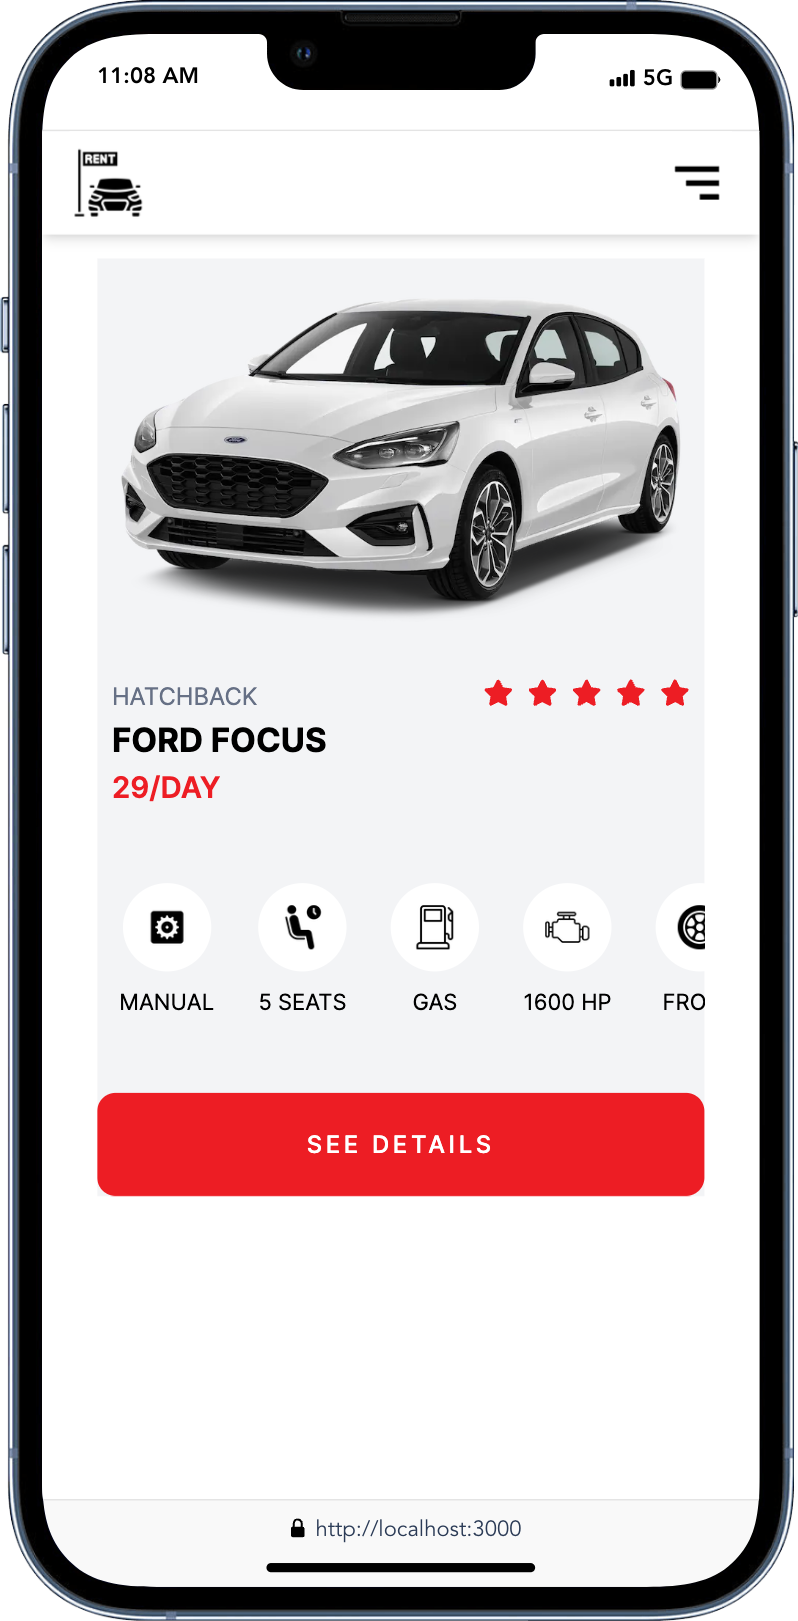
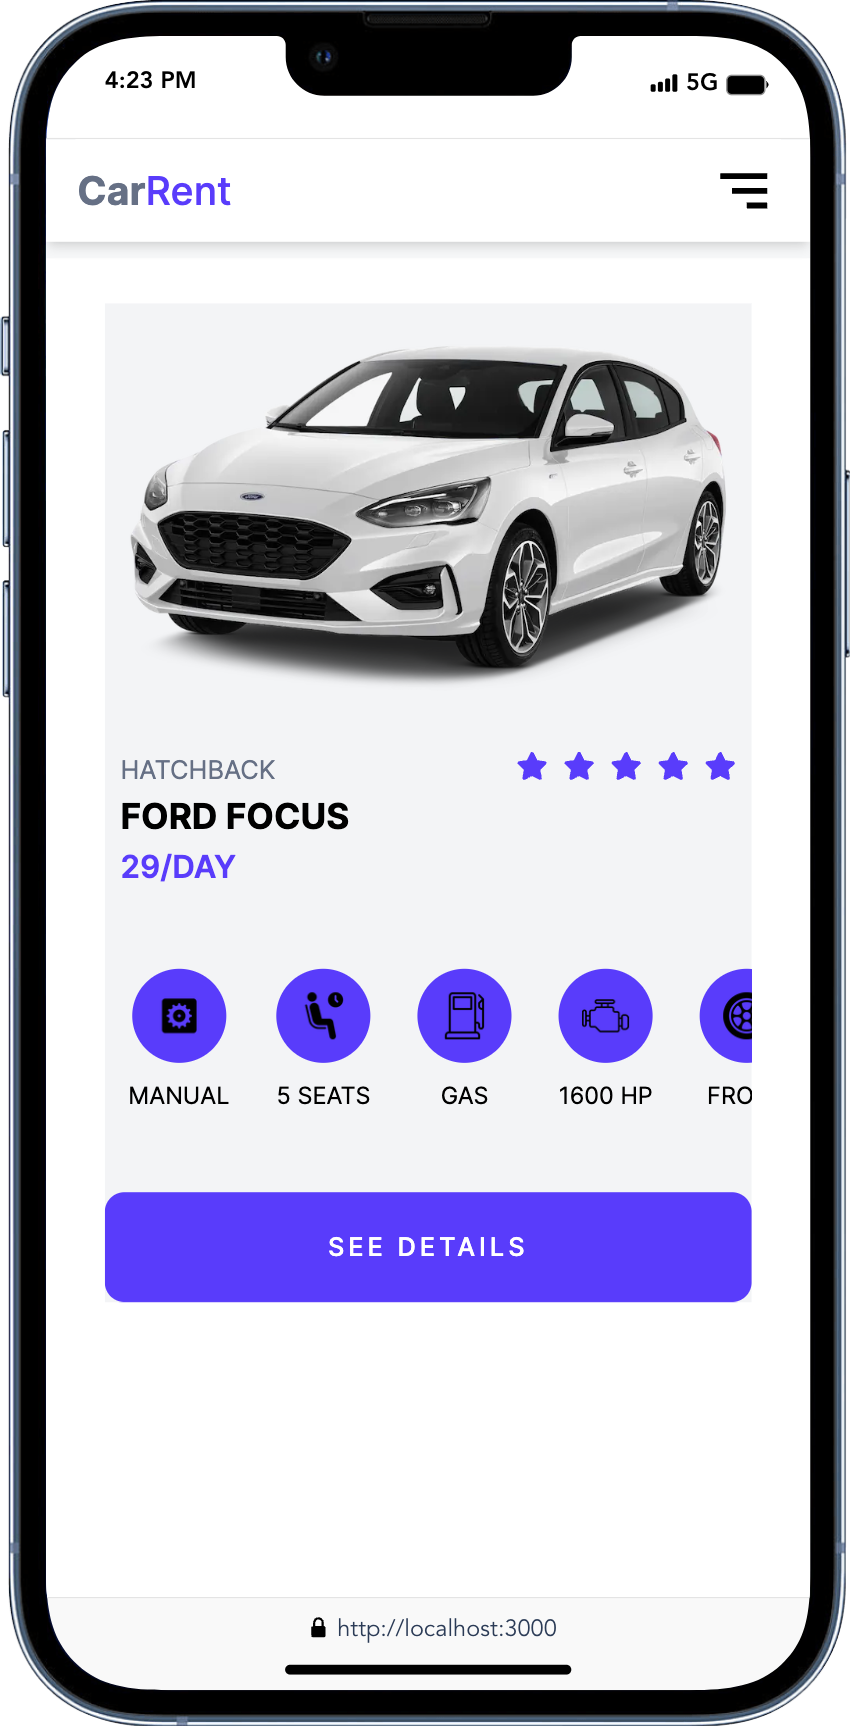
final commit

diff --git a/app/components/why.tsx b/app/components/why.tsx
@@ -19,7 +19,7 @@ export default function Why() {
           initial="hidden"
           whileInView={"show"}
           viewport={{ once: false, amount: 0.6 }}
-          className="h2 text-center"
+          className="h2 text-center text-accent"
         >
           Unmatched excellence and customer satisfaction
         </motion.h2>
@@ -28,7 +28,7 @@ export default function Why() {
           initial="hidden"
           whileInView={"show"}
           viewport={{ once: false, amount: 0.6 }}
-          className="max-w-[680px] text-center mx-auto mb-2"
+          className="max-w-[680px] text-center mx-auto mb-2 "
         >
           Our dedication to providing exceptional services sets us apart from
           the competition. From the moment you engage with us , we strive to
@@ -57,7 +57,7 @@ export default function Why() {
           {/* item 1 */}
           <div className="flex flex-col items-center text-center max-w-[160px] xl:max-w-none p-2 xl:p-0">
             <MdKey className="text-[38px] text-accent mb-4" />
-            <h3 className="h3">Rent Simply and quickly</h3>
+            <h3 className="h3 text-accent">Rent Simply and quickly</h3>
             <p className="hidden xl:flex">
               we prioritize your need and we go above and beyond to ensure your
               experience with us is nothing short of understanding.
@@ -66,7 +66,9 @@ export default function Why() {
           {/* item 2 */}
           <div className="flex flex-col items-center text-center max-w-[160px] xl:max-w-none p-2 xl:p-0">
             <MdTrendingUp className="text-[38px] text-accent mb-4" />
-            <h3 className="h3">Modern & well maintained vehicles</h3>
+            <h3 className="h3 text-accent">
+              Modern & well maintained vehicles
+            </h3>
             <p className="hidden xl:flex">
               we prioritize your need and we go above and beyond to ensure your
               experience with us is nothing short of understanding.
@@ -75,7 +77,7 @@ export default function Why() {
           {/* item 3 */}
           <div className="flex flex-col items-center text-center max-w-[160px] xl:max-w-none p-2 xl:p-0">
             <MdHandshake className="text-[38px] text-accent mb-4" />
-            <h3 className="h3">Promote and flexible services</h3>
+            <h3 className="h3 text-accent">Promote and flexible services</h3>
             <p className="hidden xl:flex">
               we prioritize your need and we go above and beyond to ensure your
               experience with us is nothing short of understanding.

diff --git a/app/components/footer.tsx b/app/components/footer.tsx
@@ -24,9 +24,9 @@ export default function Footer() {
           initial="hidden"
           whileInView={"show"}
           viewport={{ once: false, amount: 0.6 }}
-          className="flex flex-col lg:flex-row lg:justify-between gap-x-5 gap-y-14"
+          className="flex flex-col lg:flex-row lg:justify-between gap-x-5 gap-y-14 "
         >
-          <div className="flex flex-col flex-1 gap-y-8">
+          <div className="flex flex-col flex-1 gap-y-8 ">
             {/* logo */}
             <ScrollLink
               to={"home"}
@@ -34,14 +34,16 @@ export default function Footer() {
               spy={true}
               className="cursor-pointer"
             >
-              <Image src={"/icons/logo.png"} width={200} height={200} alt="" />
+              {/* <Image src={"/icons/logo.png"} width={200} height={200} alt="" /> */}
+              <p className="text-xl font-bold">
+                Car<span className="text-accent font-medium">Rent</span>
+              </p>
             </ScrollLink>
 
             {/* text */}
 
             <div className="text-secondary">
-              Lorem ipsum dolor sit, amet consectetur adipisicing elit. Iste,
-              sed.
+              Find the perfect car to conquer the great outdoors...
             </div>
             {/* phone and email */}
 
@@ -54,7 +56,7 @@ export default function Footer() {
               {/* email */}
               <div className="flex items-center gap-x-[10px]">
                 <FaEnvelope />
-                <div className="font-medium">office@carland.com</div>
+                <div className="font-medium">office@carRent.com</div>
               </div>
             </div>
           </div>
@@ -105,8 +107,8 @@ export default function Footer() {
           <div className="flex-1">
             <h3 className="h3 font-medium mb-8">Newsletter</h3>
             <div className="mb-9 text-secondary">
-              Lorem ipsum dolor sit amet consectetur adipisicing elit. Enim,
-              iusto!
+              Sign up to get the latest updates from us. We promise not to spam
+              you or share your information with anyone else.
             </div>
 
             {/* form */}

diff --git a/app/components/About.tsx b/app/components/About.tsx
@@ -54,7 +54,7 @@ export default function About() {
                 initial="hidden"
                 whileInView={"show"}
                 viewport={{ once: false, amount: 0.6 }}
-                className="h2 mb-5"
+                className="h2 mb-5 text-accent"
               >
                 Car services simplified
               </motion.h2>
@@ -87,7 +87,7 @@ export default function About() {
                     ) : null}
                     +
                   </div>
-                  <div className="uppercase text-[13px] font-semibold text-secondary">
+                  <div className="uppercase text-[13px] font-semibold text-accent">
                     car <br /> types
                   </div>
                 </div>
@@ -99,7 +99,7 @@ export default function About() {
                       <CountUp start={0} end={135} duration={3} delay={1} />
                     ) : null}
                   </div>
-                  <div className="uppercase text-[13px] font-semibold text-secondary">
+                  <div className="uppercase text-[13px] font-semibold text-accent">
                     Rental <br /> outlets
                   </div>
                 </div>
@@ -112,7 +112,7 @@ export default function About() {
                       <CountUp start={0} end={35} duration={3} delay={1} />
                     ) : null}
                   </div>
-                  <div className="uppercase text-[13px] font-semibold text-secondary">
+                  <div className="uppercase text-[13px] font-semibold text-accent">
                     Repair <br /> points
                   </div>
                 </div>

diff --git a/app/components/cta.tsx b/app/components/cta.tsx
@@ -24,20 +24,18 @@ export default function Cta() {
                 initial="hidden"
                 whileInView={"show"}
                 viewport={{ once: false, amount: 0.6 }}
-                className="h2 mb-3"
+                className="h2 mb-3 text-accent"
               >
                 Download our App now and hit the road with ease
               </motion.h2>
-              <motion.p
+              <motion.div
                 variants={FadeIn("right", 0.4)}
                 initial="hidden"
                 whileInView={"show"}
                 viewport={{ once: false, amount: 0.6 }}
                 className="mb-10"
               >
-                Lorem, ipsum dolor sit amet consectetur adipisicing elit.
-                Corrupti assumenda odit consequuntur quibusdam doloremque
-                voluptas provident architecto in.
+                Download our app from playStore and App store.
                 {/* buttons */}
                 <motion.div
                   variants={FadeIn("right", 0.6)}
@@ -63,7 +61,7 @@ export default function Cta() {
                     />
                   </button>
                 </motion.div>
-              </motion.p>
+              </motion.div>
             </div>
           </div>
 

diff --git a/app/components/hero.tsx b/app/components/hero.tsx
@@ -27,8 +27,9 @@ export default function Hero() {
               viewport={{ once: false, amount: 0.6 }}
               className="h1"
             >
-              Explore the finest <span className="text-accent">Global</span>
-              Offers
+              Find your drive <br />
+              <span className="text-accent">Car rentals </span> <br />
+              from trusted, local hosts
             </motion.h1>
             <motion.p
               variants={FadeIn("down", 0.4)}
@@ -37,8 +38,7 @@ export default function Hero() {
               viewport={{ once: false, amount: 0.6 }}
               className="description max-w-[550px] mx-auto xl:mx-0 mb-6 xl:mb-10 "
             >
-              Find your idea ride for any adventure with our diverse range of
-              affordable and dependable car rentals
+              Find the perfect car to conquer the great outdoors
             </motion.p>
             {/* buttons */}
             <motion.div

diff --git a/app/components/testimonialSlider.tsx b/app/components/testimonialSlider.tsx
@@ -41,7 +41,7 @@ const testimonialData: TestimonialsProps[] = [
   },
   {
     message:
-      "They truly exceed my expectations and made my car rental experience a delight ",
+      "It was an amazing experience with the carRental rental company. The experience was amazing. ",
     avatar: "/images/testimonial/avatar2.png",
     name: "Jane Doe",
     job: "Photographer and Videographer",
@@ -71,7 +71,7 @@ export default function TestimonialSlider() {
             <SwiperSlide key={index}>
               <div className="flex flex-col justify-center items-center text-center">
                 <FaQuoteLeft className="text-7xl text-accent mb-6" />
-                <div className="text-2xl xl:text-4xl max-w-[874px] mb-12 font-medium">
+                <div className="text-2xl xl:text-4xl max-w-[874px] mb-12 font-medium text-accent">
                   {message}
                 </div>
 

diff --git a/app/components/carSlider.tsx b/app/components/carSlider.tsx
@@ -189,7 +189,7 @@ export default function CarSlider() {
                         key={index}
                         className="flex flex-col items-center justify-center ml-3 md:ml-2 lg:ml-3 xl:ml-3"
                       >
-                        <div className="bg-white w-12 h-12 rounded-full flex justify-center items-center mb-2">
+                        <div className="bg-accent hover:bg-white w-12 h-12 cursor-pointer rounded-full flex justify-center items-center mb-2">
                           <Image
                             src={item.icon}
                             width={24}

diff --git a/app/components/header.tsx b/app/components/header.tsx
@@ -60,7 +60,10 @@ export default function Header() {
         <div className="flex justify-between items-center px-4">
           {/* logo */}
           <Link href="/" className="cursor-pointer">
-            <Image src="/icons/logo.png" alt="logo" width={40} height={20} />
+            {/* <Image src="/icons/logo.png" alt="logo" width={40} height={20} /> */}
+            <p className="text-xl font-bold">
+              Car<span className="text-accent font-medium">Rent</span>
+            </p>
           </Link>
           {/* nav open menu */}
           <div

diff --git a/app/globals.css b/app/globals.css
@@ -12,7 +12,7 @@
 }
 
 .rdrDayToday .rdrDayNumber span:after {
-  background: #ed1d24 !important;
+  background: #593cfb !important;
 }
 
 .rdrMonthAndYearPickers {
@@ -28,7 +28,7 @@
 /* swiper css */
 .swiper-horizontal > .swiper-pagination-bullets .swiper-pagination-bullet,
 .swiper-pagination-horizontal.swiper-pagination-bullets.swiper-pagination-bullets.swiper-pagination-bullet {
-  background-color: #f13024;
+  background-color: #593cfb;
 }
 
 @layer base {

diff --git a/app/layout.tsx b/app/layout.tsx
@@ -6,8 +6,8 @@ import { SearchContextProvider } from "./context/search";
 const inter = Inter({ subsets: ["latin"] });
 
 export const metadata: Metadata = {
-  title: "Create Next App",
-  description: "Generated by create next app",
+  title: "CarRent",
+  description: "Rental car app ",
 };
 
 export default function RootLayout({

diff --git a/tailwind.config.ts b/tailwind.config.ts
@@ -23,8 +23,8 @@ const config: Config = {
         primary: "#101828",
         secondary: "#667085",
         accent: {
-          DEFAULT: "#ed1d24",
-          hover: "#dd242a",
+          DEFAULT: "#593cfb",
+          hover: "#470AB4",
         },
         body: "#dedede",
       },
